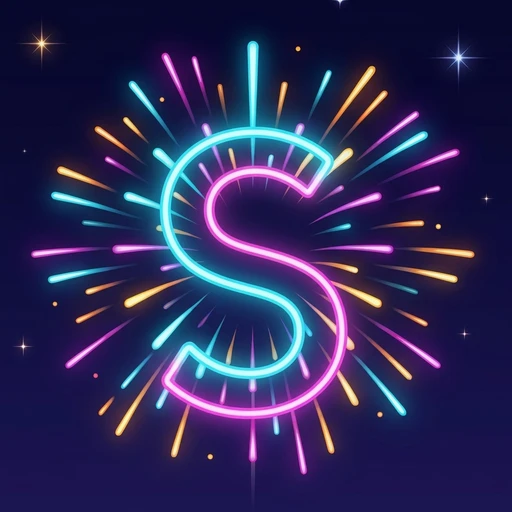
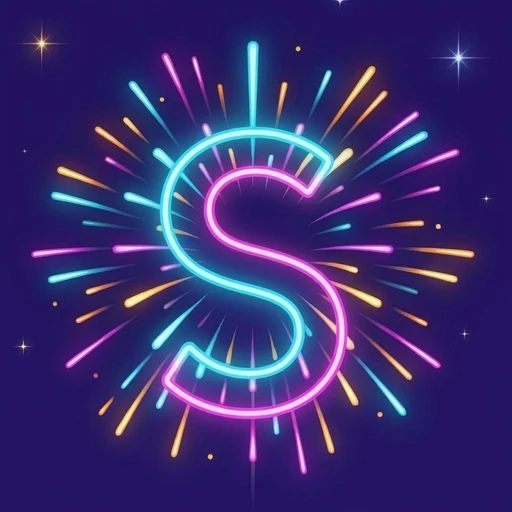
Small changes for Skyline Spark documents

diff --git a/skylinespark/privacy.html b/skylinespark/privacy.html
@@ -116,7 +116,7 @@
           <p class="eyebrow">Legal</p>
           <h1 class="page-title">Privacy Policy</h1>
           <p class="lead">Skyline Spark: Firework Tycoon, developed and published by CTN Devs</p>
-          <p class="legal-meta">Last updated: 23 November 2026</p>
+          <p class="legal-meta">Last updated: 24 November 2026</p>
         </div>
         <div class="legal-content">
           <h2>1. Introduction</h2>
@@ -135,10 +135,10 @@
           <h2>3. Data Stored on Your Device</h2>
           <p>The Game stores on your device:</p>
           <ul>
-            <li>your progress in each city: applause, firework levels, managers, upgrades and milestones reached</li>
+            <li>your progress in each city: prestige, firework levels, managers, upgrades and milestones reached</li>
             <li>the cities you have opened and the city you are in</li>
             <li>the pieces of your collection (skies, landscape and colours) you have unlocked and the ones you wear</li>
-            <li>your achievements, and the applause and boosts waiting for you when you come back</li>
+            <li>your achievements, and the prestige and boosts waiting for you when you come back</li>
             <li>your settings, such as language, sound, graphics and notifications</li>
             <li>whether you own "Remove Ads"</li>
             <li>a random player id, created by the Game and shown in Settings &gt; Your Data, which you can give me if you write to me about your game</li>
@@ -150,22 +150,22 @@
           <p>You can stop the Game from using Play Games in Settings &gt; Cloud Save. Google's handling of this data is described in its privacy policy: <a href="https://policies.google.com/privacy" target="_blank" rel="noopener noreferrer">https://policies.google.com/privacy</a></p>
 
           <h2>5. Advertising (Google AdMob)</h2>
-          <p>The Game is free and is funded by ads from Google AdMob: a banner at the bottom of the screen, and ads you can choose to watch to double the applause you earned while away or to get a boost.</p>
+          <p>The Game is free and is funded by ads from Google AdMob: a banner at the bottom of the screen, and ads you can choose to watch to double the prestige you earned while away or to get a boost.</p>
           <p>Google and its partners may use your advertising ID, IP address, and information about your device and the ads you see, in order to show and measure ads. In the European Economic Area, the United Kingdom, and Switzerland, the Game asks for your consent first. You can change your choice at any time in Settings &gt; Legal &gt; Privacy Options, and you can reset your advertising ID in your device settings. How Google uses this data: <a href="https://policies.google.com/technologies/partner-sites" target="_blank" rel="noopener noreferrer">https://policies.google.com/technologies/partner-sites</a></p>
 
           <h2>6. Purchases (Google Play)</h2>
-          <p>"Remove Ads" is an optional one-time purchase made through Google Play. Google handles the payment, and I never receive your payment details. Google gives me the order records I need for refunds and accounting.</p>
+          <p>"Remove Ads" is an optional one-time purchase made through Google Play: it removes the banner and gives the ad rewards without an ad. Google handles the payment, and I never receive your payment details. Google gives me the order records I need for refunds and accounting.</p>
 
           <h2>7. Analytics (GameAnalytics)</h2>
           <p>The Game uses GameAnalytics to understand how it is played, for example which fireworks and cities players reach and which features are used. GameAnalytics receives an identifier it creates for your installation, your device model, operating system, country, the Game's version, and gameplay events. I only look at totals across all players. GameAnalytics is operated by GameAnalytics A/S, Denmark: <a href="https://www.gameanalytics.com/trust/privacy-notice" target="_blank" rel="noopener noreferrer">https://www.gameanalytics.com/trust/privacy-notice</a></p>
 
           <h2>8. Crash and Bug Reports (Sentry)</h2>
-          <p>If the Game crashes, a report is sent to Sentry so I can fix the problem. It contains technical details about the error, the Game's version, and your device model and operating system. It does not contain screenshots or anything you typed.</p>
+          <p>If the Game crashes or stops responding, a report is sent to Sentry so I can fix the problem. It contains technical details about the error: the Game's own recent log messages, which of its screens were open, the Game's version, and your device model and operating system. It does not contain screenshots or anything you typed.</p>
           <p>If you send a report from Settings &gt; About &gt; Report a Bug, it contains what you wrote, your email address if you entered one, and a picture if you attached one. The picture is one you choose yourself; the Game cannot see your other photos. I use your email address only to reply to your report.</p>
           <p>Reports are stored in Sentry's European region, in Germany: <a href="https://sentry.io/privacy/" target="_blank" rel="noopener noreferrer">https://sentry.io/privacy/</a></p>
 
           <h2>9. Reminders</h2>
-          <p>On Android you can turn on a daily reminder to collect the applause your show earned (Settings &gt; Notifications). It is off until you agree to it. The reminder is scheduled by your device for itself: no notification service or server is involved, and nothing is sent anywhere.</p>
+          <p>On Android you can turn on a daily reminder to collect the prestige your show earned (Settings &gt; Notifications). It is off until you agree to it. The reminder is scheduled by your device for itself: no notification service or server is involved, and nothing is sent anywhere.</p>
 
           <h2>10. Sharing and Ratings</h2>
           <p>You can share a picture of your show through your device's share menu. The picture and its text go only to the app you choose; I do not receive anything.</p>

diff --git a/skylinespark/terms.html b/skylinespark/terms.html
@@ -116,7 +116,7 @@
           <p class="eyebrow">Legal</p>
           <h1 class="page-title">Terms &amp; Conditions</h1>
           <p class="lead">Skyline Spark: Firework Tycoon, developed and published by CTN Devs</p>
-          <p class="legal-meta">Last updated: 23 November 2026</p>
+          <p class="legal-meta">Last updated: 24 November 2026</p>
         </div>
         <div class="legal-content">
           <h2>1. Introduction</h2>
@@ -136,19 +136,19 @@
           <p>You are welcome to record, stream, and publish video of your own gameplay, including on monetized channels, provided you do not present the Game as your own work.</p>
 
           <h2>5. Game Progress and Cloud Save</h2>
-          <p>Your progress, including your applause, fireworks, managers, upgrades, cities, collection and achievements, is stored on your device. It is not included in a device backup.</p>
+          <p>Your progress, including your prestige, fireworks, managers, upgrades, cities, collection and achievements, is stored on your device. It is not included in a device backup.</p>
           <p>If you are signed in to Google Play Games, a copy is kept in your Google account. When the copy on your device and the one in the cloud differ, the Game keeps the one that is clearly further along. If that is not clear, the Game shows what each copy holds and you choose which to keep; the other is replaced. Cloud save depends on Google's service and is not guaranteed. Without a cloud save, clearing the Game's data, uninstalling the Game, or losing your device permanently erases your progress, and I cannot restore it.</p>
           <p>Delete Save Game in Settings permanently erases your progress, and your cloud save if you are signed in. This cannot be undone.</p>
 
-          <h2>6. Applause and Unlocks</h2>
-          <p>Applause is earned by playing, including while the Game is closed, up to a limit, and is spent on fireworks, managers and upgrades. Collection pieces are unlocked by reaching milestones in each city. Applause, boosts and unlocks have no monetary value and cannot be bought, sold, traded, or exchanged for money.</p>
-          <p>The applause earned while you are away depends on your device's clock. Changing the clock to earn more is not allowed, and the Game may ignore time that does not add up.</p>
+          <h2>6. Prestige and Unlocks</h2>
+          <p>Prestige is earned by playing, including while the Game is closed, up to a limit, and is spent on fireworks, managers and upgrades. Collection pieces are unlocked by reaching milestones in each city, and each one you unlock adds a small permanent bonus to the prestige you earn. Prestige, boosts and unlocks have no monetary value and cannot be bought, sold, traded, or exchanged for money.</p>
+          <p>The prestige earned while you are away depends on your device's clock. Changing the clock to earn more is not allowed, and the Game may ignore time that does not add up.</p>
 
           <h2>7. Advertisements</h2>
-          <p>The Game is free and contains ads provided by Google AdMob: a banner at the bottom of the screen, and rewarded ads you choose to watch to double the applause you earned while away or to get a boost. Ads are chosen and supplied by third parties, and I am not responsible for their content or for what they advertise. How ads use data is described in the <a href="privacy">Privacy Policy</a>.</p>
+          <p>The Game is free and contains ads provided by Google AdMob: a banner at the bottom of the screen, and rewarded ads you choose to watch to double the prestige you earned while away or to get a boost. Ads are chosen and supplied by third parties, and I am not responsible for their content or for what they advertise. How ads use data is described in the <a href="privacy">Privacy Policy</a>.</p>
 
           <h2>8. Remove Ads Purchase</h2>
-          <p>"Remove Ads" is an optional one-time purchase through Google Play, at the price shown before you confirm. It removes the banner. Watching an ad for a reward remains available as your own choice. It does not unlock fireworks, cities or collection pieces, or speed up the Game in any other way.</p>
+          <p>"Remove Ads" is an optional one-time purchase through Google Play, at the price shown before you confirm. It removes the banner and gives you every reward that otherwise takes an ad, without one: double prestige for the time you were away, and the long boost from every sky visitor. It does not unlock fireworks, cities or collection pieces.</p>
           <p>The purchase is linked to your Google account and is restored when you install the Game on a device using that account. Deleting your save does not remove it.</p>
           <p>Payment is handled by Google Play under its terms. You can ask for a refund through Google Play (<a href="https://support.google.com/googleplay/answer/2479637" target="_blank" rel="noopener noreferrer">Google Play refunds</a>) or by emailing me at <span class="email">skylinespark@ctndevs.com</span> with the order number from your Google Play receipt (it starts with "GPA."). If a purchase is refunded, ads return. Your rights as a consumer, including any right of withdrawal, are not affected.</p>
 

diff --git a/skylinespark/index.html b/skylinespark/index.html
@@ -37,7 +37,7 @@
     "gamePlatform": "Android",
     "genre": ["Simulation", "Idle", "Tycoon"],
     "playMode": "SinglePlayer",
-    "softwareVersion": "0.1.0",
+    "softwareVersion": "1.0.2",
     "inLanguage": [
       "en",
       "ro",
@@ -184,7 +184,7 @@
           <article class="feature reveal">
             <span class="feature-icon" aria-hidden="true">🌠</span>
             <h3>Sky Visitors</h3>
-            <p>Now and then a paper lantern, a drone or a shooting star drifts by. Tap it for a boost.</p>
+            <p>Now and then a little plane flies over towing a Double Applause banner. Tap it for a boost.</p>
           </article>
           <article class="feature reveal">
             <span class="feature-icon" aria-hidden="true">🏆</span>
@@ -199,7 +199,7 @@
           <article class="feature reveal">
             <span class="feature-icon" aria-hidden="true">🆓</span>
             <h3>Free to Play</h3>
-            <p>Ads keep the game free, and one optional purchase removes the banner. Nothing is sold that speeds you up.</p>
+            <p>Ads keep the game free, and one optional purchase removes the banner and gives you the ad rewards without ads.</p>
           </article>
         </div>
       </div>
@@ -231,7 +231,7 @@
           </details>
           <details>
             <summary>Are there ads?</summary>
-            <p>Yes. A banner shows at the bottom of the screen, and you can choose to watch an ad to double the applause you earned while away or to get a boost. In the EEA, the UK, and Switzerland you are asked for consent first, and you can change your choice in Settings &gt; Legal &gt; Privacy Options. Remove Ads takes away the banner.</p>
+            <p>Yes. A banner shows at the bottom of the screen, and you can choose to watch an ad to double the applause you earned while away or to get a boost. In the EEA, the UK, and Switzerland you are asked for consent first, and you can change your choice in Settings &gt; Legal &gt; Privacy Options. Remove Ads takes away the banner and gives you those rewards without an ad.</p>
           </details>
           <details>
             <summary>Does the game earn while I am not playing?</summary>
